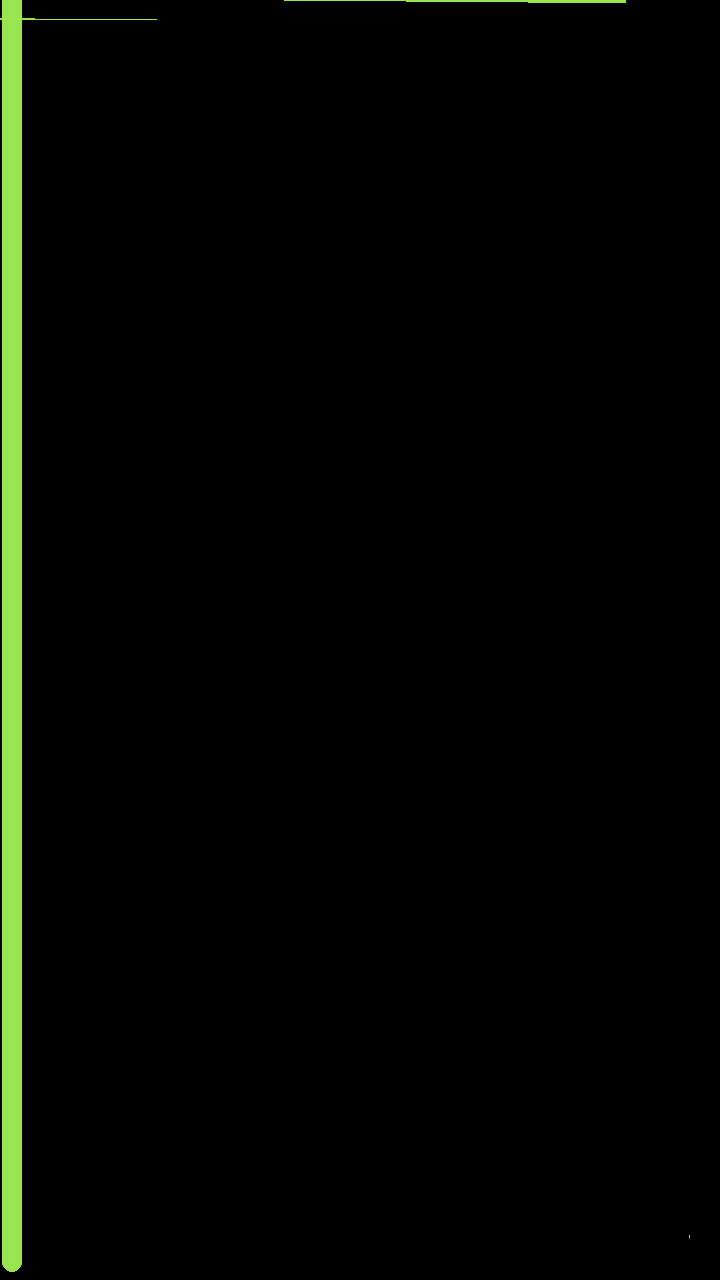
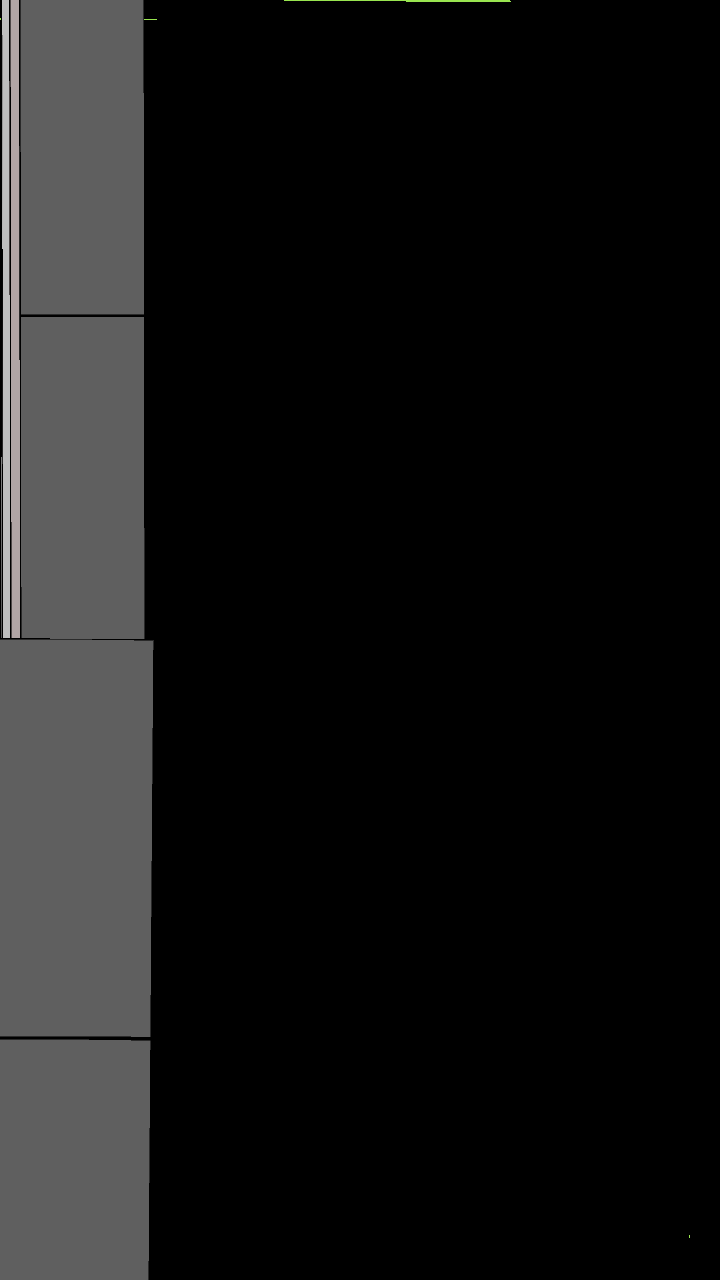
rudimentary environments testing

Changed region(s): [[0.0, 0.0, 0.2139, 1.0]]

diff --git a/README.md b/README.md
@@ -82,3 +82,12 @@ GAME DESIGN needed before anything deeper.
 - Tidy up the environments. Improve the 'sketch' at least.
 - Add screen jiggle when player tries to move in blocked direction. Add warning message when they try to do it twice. Add exasperated message if they try a third time in a row. "You won't be told again."
 - Start proper game design thinking about the battle system.
+
+Working on improving the environments, although the danger now is doing too much. Have acquired some promising assets. No other progress.
+
+### Thu 10 October
+
+- Add minimal environments (just proper walls for now).
+- Add screen jiggle not doine yesterday.
+- Watch Turn Based Battle tutorial.
+
